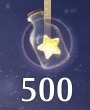
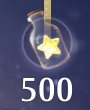
优化登录：卡在登录界面15分钟后使用更佳的窗口激活方式。但新wxnn优化太离谱，使用这种方法偶尔闪退，还是谨慎用吧，以普通的激活为主

diff --git a/Util/util.py b/Util/util.py
@@ -126,6 +126,45 @@ class NikkiUtil:
             # 而你的脚本不是，可能会抛出权限错误
             print(f"激活窗口时发生错误: {e}")
 
+
+
+    def activate_window_by_title_force(self, window_title="无限暖暖"):
+        """
+        根据窗口标题激活窗口
+        :param window_title: 窗口标题
+        """
+        try:
+            window_list = gw.getWindowsWithTitle(window_title)
+
+            if window_list:
+                target_window = window_list[0]
+
+                # 1. 如果窗口已最小化，先恢复它
+                if target_window.isMinimized:
+                    target_window.restore()
+                    time.sleep(0.2)  # 等待窗口恢复
+
+                # 2. 最小化窗口，打破当前的焦点状态
+                target_window.minimize()
+                time.sleep(2)  # 等待窗口最小化
+
+                # 3. 恢复窗口，把它带到Z序（堆叠顺序）的顶层
+                target_window.restore()
+                time.sleep(0.2)  # 等待窗口恢复
+
+                # 4. 最后再激活，获得键盘焦点
+                target_window.activate()
+
+                print(f"成功强制激活窗口: {window_title}")
+
+            else:
+                print(f"未找到标题为 '{window_title}' 的窗口。")
+
+        except Exception as e:
+            # 这里特别要注意，如果目标窗口是以管理员权限运行的，
+            # 而你的脚本不是，可能会抛出权限错误
+            print(f"激活窗口时发生错误: {e}")
+
     def wait_image(self, image_path, wait_interval=0.5, max_attempts=100):
         """
         在屏幕上查找图片并点击，同时确保指定窗口已激活。

diff --git a/task/launch.py b/task/launch.py
@@ -55,7 +55,12 @@ class GameLauncher:
         while True:
             count += 1
             if count % 4 == 0:
+                pyautogui.hotkey("alt", "tab")
                 util.activate_window_by_title()
+                if time.time() - start_time > 900:  # 15分钟 后使用更佳的窗口激活方式。但新wxnn使用这种方法老是闪退，还是谨慎用吧
+                    util.activate_window_by_title_force()
+
+
             found_image = util.wait_images(["update", "yes3", "yes", "launch", "update2"], max_attempts=1)
             if found_image:
                 util.wait_and_click_image(found_image)
@@ -67,6 +72,8 @@ class GameLauncher:
                 break
             util.click_coordinate(900,800)
             time.sleep(0.1)
+
+
 
             # 检查是否超时
             if time.time() - start_time > 1200:  # 20分钟 = 1200秒
